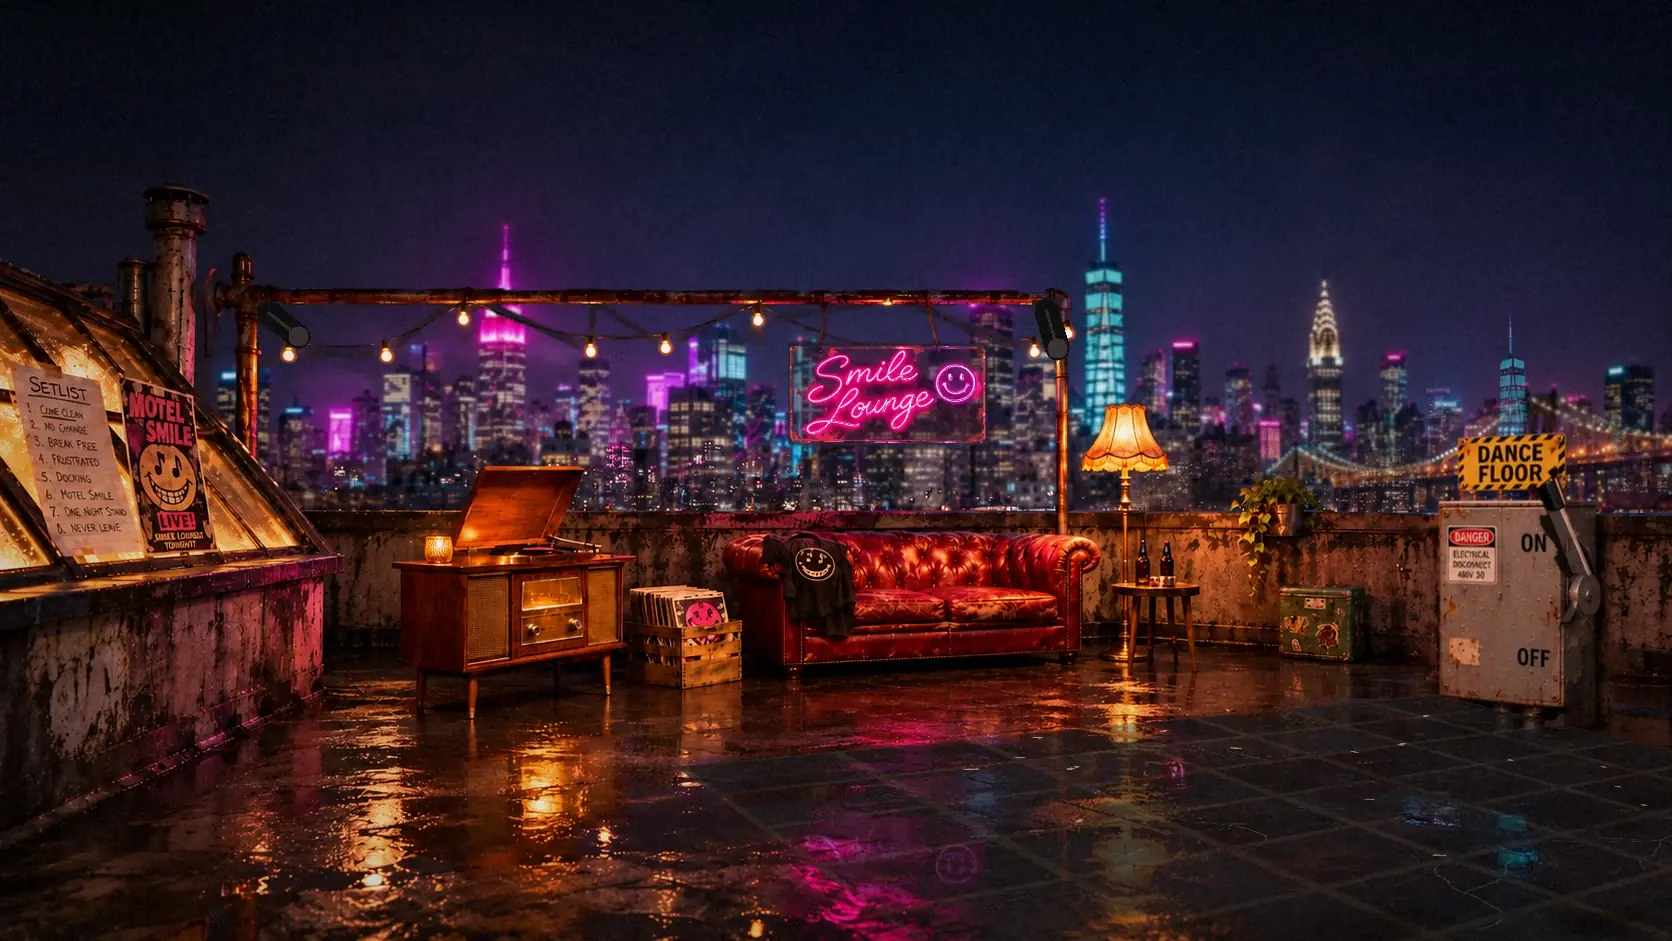
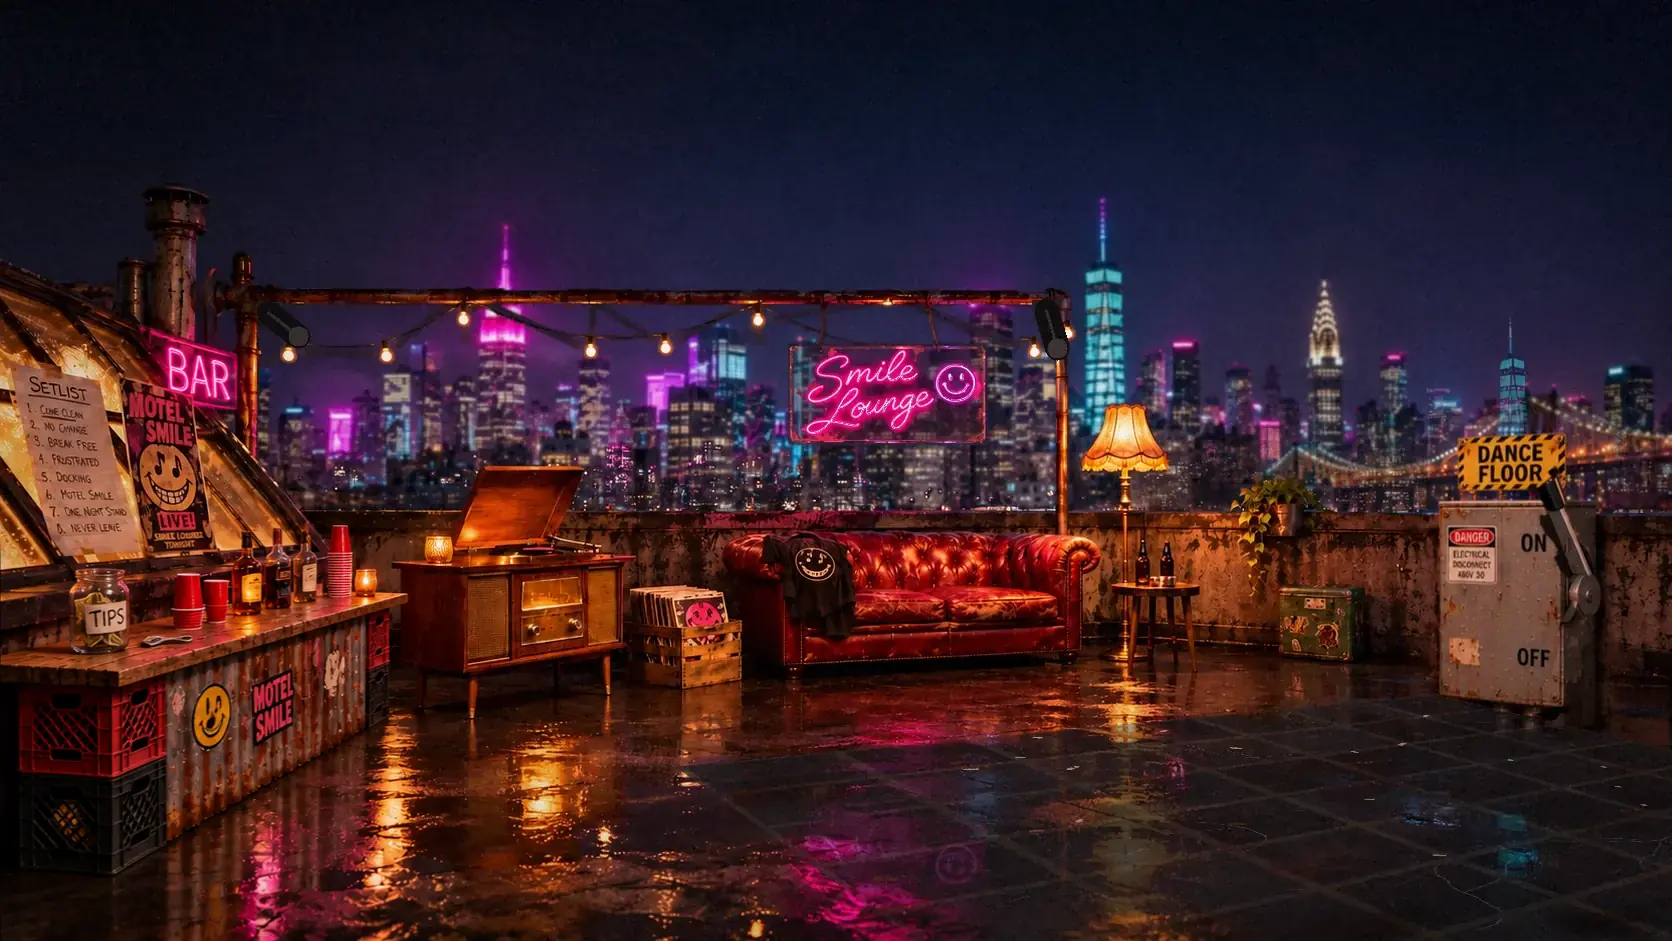
Lounge: makeshift bar along the skylight wall (ChatGPT edit, masked onto the original plate); record panel moved off the bar
Claude-Session: https://claude.ai/code/session_011gssdMsenVXumrh9a32rRB

Changed region(s): [[0.0, 0.5547, 0.2488, 1.0], [0.0622, 0.339, 0.1555, 0.4623]]

diff --git a/index.html b/index.html
@@ -324,7 +324,7 @@ window.MSFit=(w,h,W0,H0)=>{ const cov=Math.max(w/W0,h/H0), con=Math.min(w/W0,h/H
 body.in-room #stage>:is(.top,#flyer,#play,#flash,#hunt,#pan-hint,#lounge-hot,.sky,.sheet,.bar,.gagfx){visibility:hidden;content-visibility:hidden}
 body.in-room #stage>:is(.top,#flyer,#play,#hunt,.sky,.bar) *{animation-play-state:paused!important}
 body.in-room .lounge:not(.on) *,body.in-room .arcade:not(.on) *{animation-play-state:paused!important}
-.lounge.moving .lg-fill{opacity:.25}.lg-fill{transition:opacity .4s;position:absolute;inset:-40px;background:url(img/smile-lounge.webp?v=c1) 40% 50%/cover;filter:blur(22px) brightness(.45)}
+.lounge.moving .lg-fill{opacity:.25}.lg-fill{transition:opacity .4s;position:absolute;inset:-40px;background:url(img/smile-lounge.webp?v=b1) 40% 50%/cover;filter:blur(22px) brightness(.45)}
 .lg-cam,.lg-hero{position:absolute;left:0;top:0;width:1672px;height:941px;transform-origin:0 0;will-change:transform,opacity}
 .lg-cam{z-index:8}.lg-hero{z-index:2;background:url(img/roof-main.webp?v=c1) 0 0/1672px 941px;pointer-events:none}
 .lg-cam img{position:absolute;display:block;user-select:none;-webkit-user-drag:none}
@@ -348,7 +348,7 @@ body.in-room .lounge:not(.on) *,body.in-room .arcade:not(.on) *{animation-play-s
 .lg-tag[hidden]{display:none}
 @keyframes lgpulse{0%,100%{transform:translateY(0);opacity:1}50%{transform:translateY(-8px);opacity:.75}}
 /* front-of-console player: sits on the speaker grille */
-.lg-panel{transition:opacity .3s;position:absolute;left:250px;top:722px;width:362px;height:186px;z-index:4;padding:18px 22px;background:rgba(5,6,10,.5);border:1.5px solid rgba(255,61,127,.35);border-radius:6px;box-shadow:inset 0 0 40px rgba(0,0,0,.6);backdrop-filter:blur(2px);display:flex;flex-direction:column;gap:7px;font-family:var(--mono);color:var(--fog)}
+.lg-panel{transition:opacity .3s;position:absolute;left:448px;top:752px;width:330px;height:176px;z-index:4;padding:18px 22px;background:rgba(5,6,10,.5);border:1.5px solid rgba(255,61,127,.35);border-radius:6px;box-shadow:inset 0 0 40px rgba(0,0,0,.6);backdrop-filter:blur(2px);display:flex;flex-direction:column;gap:7px;font-family:var(--mono);color:var(--fog)}
 .lg-panel small{font-size:12px;letter-spacing:.25em;text-transform:uppercase;color:var(--pink)}
 .lg-panel b{font-family:var(--tube);font-weight:400;font-size:30px;line-height:1.05;color:#fff;text-shadow:0 0 10px var(--pink)}
 .lg-panel .row{display:flex;align-items:center;gap:12px;font-size:14px}
@@ -427,7 +427,7 @@ body.in-room .lounge:not(.on) *,body.in-room .arcade:not(.on) *{animation-play-s
 .dig-row[disabled]{cursor:default;color:var(--fog)}.dig-row[disabled] em{color:var(--fog)}
 .dig-row:not([disabled]):hover{background:rgba(255,61,127,.12)}
 @media (max-width:760px){.dig-head h3{visibility:hidden}.dig-foot{flex-wrap:wrap;justify-content:center;border-radius:18px;width:calc(100% - 24px);padding:10px 12px;row-gap:8px}.dig-foot b{order:-1;flex:1 0 100%;text-align:center;font-size:18px}}
-.cr-fill{position:absolute;inset:-40px;background:url(img/smile-lounge.webp?v=c1) 40% 50%/cover;filter:blur(24px) brightness(.4)}
+.cr-fill{position:absolute;inset:-40px;background:url(img/smile-lounge.webp?v=b1) 40% 50%/cover;filter:blur(24px) brightness(.4)}
 @media (max-width:760px) and (orientation:portrait){
   .lg-panel{position:absolute;pointer-events:auto;left:12px;right:12px;top:auto;bottom:calc(12px + env(safe-area-inset-bottom,0px));width:auto;height:auto;transform:none;background:var(--glass);border-color:var(--line);padding:14px 16px;gap:8px}
   .lg-panel small{font-size:11px}.lg-panel b{font-size:24px}.lg-panel .row{font-size:13px}
@@ -509,8 +509,8 @@ body.gg-on .lg-panel,body.gg-on .lg-tag,body.gg-on .lg-hint,body.gg-on .lg-swipe
 <section class="lounge" id="lounge" aria-label="The Smile Lounge" aria-hidden="true">
   <div class="lg-fill"></div>
   <div class="lg-cam" id="lg-cam">
-    <img class="lg-bg lg-lay" id="pl-sky" src="img/smile-lounge.webp?v=c1" alt="The Smile Lounge: a record player, a crate of records, a red couch and a dance floor on the roof" width="1672" height="941">
-    <img class="lg-bg lg-lay" id="pl-on" src="img/smile-lounge-on.webp?v=c1" alt="" width="1672" height="941">
+    <img class="lg-bg lg-lay" id="pl-sky" src="img/smile-lounge.webp?v=b1" alt="The Smile Lounge: a record player, a crate of records, a red couch and a dance floor on the roof" width="1672" height="941">
+    <img class="lg-bg lg-lay" id="pl-on" src="img/smile-lounge-on.webp?v=b1" alt="" width="1672" height="941">
     <canvas id="lg-fx" width="1672" height="941" aria-hidden="true"></canvas>
     <div id="gr-wrap" aria-hidden="true"><img id="gr-pose" alt=""><div id="gr-shadow"></div><img id="gr-dance" alt="Grace dancing"><div id="gr-pshadow"></div><div id="gr-partner"><img class="r" alt=""><img class="n" alt=""></div></div>
     <div class="gr-ask" id="gr-ask"><span class="gr-ask-h">Dance with</span><a class="pill" style="--c:var(--pink)" href="#" data-partner="pat">Pat</a><a class="pill" style="--c:var(--cyan)" href="#" data-partner="jordan">Jordan</a><a class="pill" style="--c:#ffaa46" href="#" data-partner="jacob">Jacob</a><button class="x" id="gr-ask-x" aria-label="Send her back to the floor">✕</button></div>
